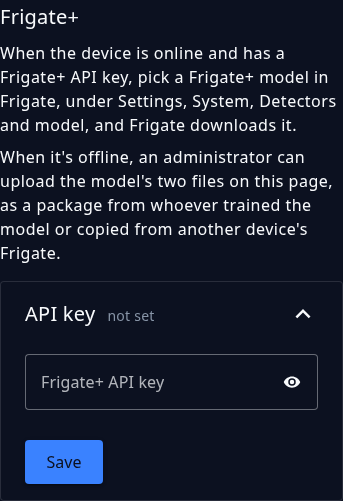
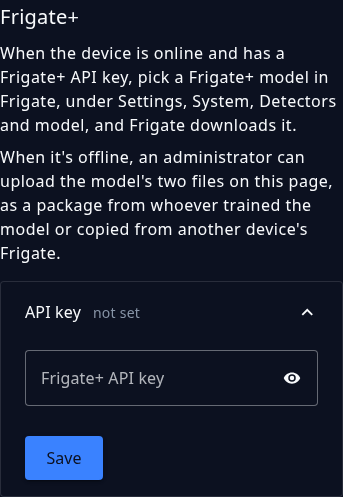
Tidy the Detection page's Frigate+ title and its docs
The "API key" panel title now sits in an h3 at the size of the Device
page's key titles, so it no longer reads as large as the Frigate+
heading. The Detection page docs say what the page shows: the two
lists of the card in use are recognised and tracked, not two readings
of one list, and the safe-mode and Frigate-down text matches what the
page does. The UI README's sketch and notes agree with the code, the
safe-mode test asserts both lists, and both screenshots are retaken.

Assisted-by: Claude Code 2.1.325 (CLI)
AI-Model: Claude Sonnet 5.5 (claude-sonnet-5-5)
AI-Role: drafted

diff --git a/tm-control/ui/src/modules/detection/DetectionPage.vue b/tm-control/ui/src/modules/detection/DetectionPage.vue
@@ -41,8 +41,8 @@ async function load() {
 }
 
 // The Frigate+ key (admins only), loaded again after each save or remove. The Status page's "Set the key" links to
-// the section, which opens, and the page scrolls to it once the models have answered and the sections above it have
-// their height.
+// the section, which is always there, and opens the key's panel; the page scrolls to the section once the models
+// have answered and the sections above it have their height.
 const FRIGATE_PLUS_ID = 'frigate-plus'
 const linkedToKey = route.hash === `#${FRIGATE_PLUS_ID}`
 const secrets = ref<SecretState[] | null>(null)
@@ -453,12 +453,14 @@ function openUpload() {
       </p>
       <v-expansion-panels v-if="session.isAdmin" v-model="keyOpen" multiple flat bg-color="background">
         <v-expansion-panel :value="FRIGATE_PLUS_ID" class="border" eager>
-          <v-expansion-panel-title class="text-h6">
-            <span class="d-flex flex-wrap align-baseline key-title">
-              <span>API key{{ ' ' }}</span>
-              <span v-if="keyState" class="text-body-2 text-secondary">{{ keyState }}</span>
-            </span>
-          </v-expansion-panel-title>
+          <h3 class="text-body-1">
+            <v-expansion-panel-title>
+              <span class="d-flex flex-wrap align-baseline key-title">
+                <span class="text-subtitle-1 font-weight-medium">API key{{ ' ' }}</span>
+                <span v-if="keyState" class="text-body-2 text-secondary">{{ keyState }}</span>
+              </span>
+            </v-expansion-panel-title>
+          </h3>
           <v-expansion-panel-text>
             <v-alert v-if="secretsError" type="error">
               {{ secretsError }}

diff --git a/tm-control/ui/tests/detection-page.spec.ts b/tm-control/ui/tests/detection-page.spec.ts
@@ -527,7 +527,9 @@ describe('the Detection page', () => {
     expect(toggle.text()).toBe('API key not set')
     expect(toggle.attributes('aria-expanded')).toBe('false')
     expect(wrapper.find('#frigate-plus form').exists()).toBe(true)
-    expect(wrapper.find('#frigate-plus h3').exists()).toBe(false) // the title says it already
+    expect(wrapper.find('#frigate-plus h3').text()).toBe('API key not set') // the panel's title sits inside a heading
+    expect(wrapper.findAll('#frigate-plus h3')).toHaveLength(1) // the form's own title is hidden: this one says it
+    expect(toggle.element.closest('h3')).not.toBeNull()
     await toggle.trigger('click')
     expect(toggle.attributes('aria-expanded')).toBe('true')
     expect(wrapper.text()).not.toContain('ThingsBoard access token')
@@ -647,6 +649,10 @@ describe('the Detection page', () => {
     expect(wrapper.text()).not.toContain("Frigate isn't answering")
     expect(fact(wrapper, 'Detector')).toBe('edgetpu')
     expect(wrapper.find('.model.in-use').text()).toContain('Test site yolov9') // what the config file names
+    expect(usedFold(wrapper).findAll('h4').map((h) => h.text())).toEqual([
+      `Objects the running model recognises (${MODELS.labels.recognised!.length})`,
+      expect.stringMatching(/^Objects tracked on this device \(6/),
+    ])
   })
 
   it("says the running model's labels aren't known when Frigate answers without them", async () => {

diff --git a/docs/use/detection.md b/docs/use/detection.md
@@ -15,7 +15,7 @@ The control app's **Detection** page shows what the device looks for and which A
 * **[Frigate+](#frigate-plus)** is how to get a Frigate+ model, and where administrators set the API key.
 * **Other models on this device** lists the rest, and its title counts them.
 
-![The Detection page on a phone, as an administrator: the Detector and Running model facts, then the model in use, its Files and objects opened to show the two lists of objects with three amber objects under them, and its files](../assets/images/detection-page-models.png){ width="300" }
+![The Detection page on a phone, as an administrator: the Detector and Running model facts, then the model in use, its Files and objects opened to show the two lists of objects and the model's files, then the Frigate+ section with its API key panel closed, and the other models](../assets/images/detection-page-models.png){ width="300" }
 
 Each model is a card with its name, its kind (Frigate+ or local), and when it was trained and what it's built for (when it says). Select **Files and objects** on a card to see its files, with their sizes and the start of each file's SHA-256 hash, and [the objects it recognises](#what-the-model-recognises). A model with no list of objects has **Files** instead, and the running model's card with no files has **Objects**. A mark says when the model is:
 
@@ -29,7 +29,7 @@ The model the installer set up is shown as **The installer's model**. It has no 
 
 Everyone who can log in sees the models, the object lists, and the Frigate+ text. Administrators also get **Upload a model**, under the **Other models on this device** heading, then **Use**, **Download**, and **Delete** on each model, and the Frigate+ API key. While Frigate runs another model, the device's default (the installer's model, or Frigate's built-in model on a device without a Coral) has a **Use** of its own.
 
-When Frigate isn't answering, the page says so and shows what Frigate's config file says. The model in use still has its card, made from the config file, so its lists are there too. A model that Frigate runs but the device has no entry for gets a card too, named for the model or **Unknown model**. The same when Frigate started in safe mode because it couldn't use its config: the page says so, nothing is detected meanwhile, and **Use** on a model, or on the installer's model, gives Frigate a config it can run.
+When Frigate isn't answering, the page says so and shows what Frigate's config file says. The same when Frigate started in safe mode because it couldn't use its config: the page says so, nothing is detected meanwhile, and **Use** on a model, or on the installer's model, gives Frigate a config it can run. In both cases the model in use still has its card, made from the config file. The objects Frigate tracks aren't known while it's down, so that list is empty, and the recognised list is there only when the model has a `.json` or the installer's labels file. A model that Frigate runs but the device has no entry for gets a card too, named for the model or **Unknown model**.
 
 ## Upload a model
 
@@ -78,13 +78,13 @@ The model in use's card holds two lists of objects. Select **Files and objects**
 * **Objects the running model recognises** is what the running model can detect. The line under its title says where the list came from: Frigate when it answers, otherwise the model's `.json` or the installer's labels file. Objects the device also tracks are filled. Frigate fills the gaps in a model's label map with entries named `unknown`, which the page leaves out, so its count can be lower than the label map's.
 * **Objects tracked on this device** is the objects Frigate is set to track, from its `objects:` `track` lists. Objects the running model doesn't recognise are amber, and the title counts them.
 
-Each list has a **Copy** button, and both are open whenever the card's fold is.
+Each list with objects in it has a **Copy** button, and both lists are shown whenever **Files and objects** is open.
 
-Frigate tracks only the objects in both lists. To track more of what the model recognises, change the lists in Frigate's configuration editor; see [Tune object detection](../configuration/frigate-config.md). An object that's tracked but not recognised is also named on the card itself, under **Tracked but not recognised by the running model**, so you see it while the fold is closed. The model can't detect it, so the device never counts it.
+To track more of what the model recognises, change the lists in Frigate's configuration editor; see [Tune object detection](../configuration/frigate-config.md). An object that's tracked but not recognised is also named on the card itself, under **Tracked but not recognised by the running model**, so you see it while **Files and objects** is closed. The model can't detect it, so the device never counts it.
 
 The other models' cards each have their own **Objects it recognises** list, read from that model's `.json` or, for the installer's model, its labels file. Frigate's built-in model has none. On those cards, a line names the tracked objects that model doesn't recognise, which the device would stop counting if you switched to it.
 
-The two lists in the model in use's card are read in different ways, but they should agree. When Frigate's list has different objects, a line above the lists says "Frigate reports a different list than this model's .json." This is rare, and it usually means someone edited the label map in Frigate's config on purpose.
+The recognised list comes from Frigate, and the model's `.json` has a list of its own. They should agree. When Frigate's list has different objects, a line above the lists says "Frigate reports a different list than this model's .json." This is rare, and it usually means someone edited the label map in Frigate's config on purpose.
 
 ## Frigate+ { #frigate-plus }
 
@@ -97,7 +97,7 @@ The two lists in the model in use's card are read in different ways, but they sh
 
 The two paragraphs show for everyone, and the section is there even when the page can't load the models. Administrators enter the API key in the panel titled **API key**, under the two paragraphs and above **Other models on this device**. The panel is closed until you select its title. The Status page's **Set the key** opens it. The key is kept with the device's other secrets, not in `config.yml`. A viewer sees the paragraphs and no panel.
 
-* The page never shows the key back. Beside the panel's title is a short note on whether the key is set: "not set", "set", or "set, ending in" its last four characters for a key of 12 or more characters. It adds ", in use" while Frigate runs a Frigate+ model.
+* The page never shows the key back. Beside the panel's title is a short note on whether the key is set: "not set", "set", or "set, ending in" its last four characters for a key of 12 or more characters. A set key's note adds ", in use" while Frigate runs a Frigate+ model; "not set" never does.
 * **Save** stores what you typed. A key is 36 characters, a colon, and 40 lowercase letters or digits, as Frigate+ shows it; the page refuses anything else. The eye icon shows the key while you type.
 * **Remove** asks first, then empties the key. Without a key, snapshots can't be submitted to Frigate+. A Frigate+ model whose files are on the device keeps running; one that isn't downloaded yet [stops Frigate](../configuration/frigate-config.md#if-frigate-stops-over-a-model) until the key is set again, and the Status page's Frigate+ check says so.
 * Saving or removing restarts Frigate, which takes about a minute. The device counts nothing meanwhile.

diff --git a/tm-control/ui/README.md b/tm-control/ui/README.md
@@ -515,8 +515,8 @@ Object detection, Model in use, Frigate+, Other models on this device.
 | |   (person) (car) !dog! !cat!   | |  <- !amber! = not recognised
 | |   Amber: the running model     | |
 | |   doesn't recognise it.        | |
-| |   0123...cdef, 4.0 KB, SHA-256 | |
-| |   0123...cdef.json, 433 bytes  | |
+| |   mine.tflite, 2.0 KB, SHA-256 | |
+| |   mine.tflite.json, 433 bytes  | |
 | +--------------------------------+ |
 |                                    |
 | Frigate+                      (h2) |  <- outside the panel
@@ -524,8 +524,9 @@ Object detection, Model in use, Frigate+, Other models on this device.
 | a Frigate+ API key, pick ...       |
 | When it's offline, an              |  <- both paragraphs: everyone
 | administrator can upload ...       |
-| > API key  set, ending in 0001,    |  <- admins: one panel, closed;
-|   in use                           |     a viewer sees no panel
+| > API key  set, ending in 0001     |  <- admins: one panel, closed (h3
+|                                    |     holds its title); a viewer sees
+|                                    |     no panel
 |                                    |
 | Other models on this device (2)(h2)|
 | [Upload a model]                   |
@@ -581,8 +582,9 @@ Frigate+ text.
 - The card in use is always there once the models have loaded, so the running model's lists have a home whether
   Frigate answers or not. The page makes the card when the list has none. A default with no file on the device
   (Frigate's built-in model on a device without a Coral, which the API can't list) gets one with "Built into
-  Frigate." as its facts line ("Set up by the installer." for the installer's model) and no files; a running model with no entry in the list gets one titled with its name,
-  or "Unknown model" when Frigate gave none. Without the first, a CPU device's one choice would be a button with no
+  Frigate." as its facts line ("Set up by the installer." for the installer's model) and no files; a running model
+  with no entry in the list gets one titled with its name, or "Unknown model" when Frigate gave none, with no buttons
+  and no file lines. Without the first, a CPU device's one choice would be a button with no
   card. The other cards are as the API lists them.
 - One chip per model at most, in words: "In use" (in the heading blue), "can't run on this detector", or
   "incomplete" (a model file without its sidecar, or the other way round). The API's reason, when it has one, is a
@@ -618,8 +620,10 @@ Frigate+ text.
   runs a Frigate+ model, and nothing until the secrets answer. A viewer gets the text and no panel. The section does
   not wait for `GET /models`, so it shows, and the key's form works, when the models can't load. The Status page's
   "Set the key" links to `/detection#frigate-plus`, which opens the panel and scrolls to the section. The panel's
-  content is rendered while closed (`eager`), so the page's height is known when the link scrolls. Its title
-  is a plain button at heading size, not a heading, because the section's h2 above it is the heading. The key's form is the Device page's (`EnteredSecret.vue`) without its own heading and state line.
+  content is rendered while closed (`eager`), so the page's height is known when the link scrolls. Its title, a
+  button, sits inside an h3 (`text-body-1`, like the Location page's panels), with "API key" in `text-subtitle-1
+  font-weight-medium`, the size of `EnteredSecret`'s own h3 on the Device page. At `text-h6` it read as large as the
+  section's h2. The key's form is the Device page's (`EnteredSecret.vue`) without its own heading and state line.
 - The admin's actions are buttons on each card, 44 px tall, in order of weight: Use (filled, not on the model in use),
   Download (outlined, any model whose model file is on the device), and Delete (red outline, when the API says it can
   be). "Upload a model" sits under the "Other models" heading, above the cards it adds to, visible with nothing to
@@ -686,6 +690,10 @@ through the `#frigate-plus` link, and through a Use and a Delete:
 - A closed card looked bottom-heavy, with the card's padding under the title's own. The fold takes back 8 px of it.
 - On a Coral unit running the installer's model, Frigate's list had 91 entries, 74 of them `unknown`, so the top list
   read "(91)" over rows of `unknown` chips while the card said 17. The API now leaves `unknown` out of every list.
+- Looked at and kept: at 375 px each list title in the fold wraps and its Copy sits on its own row. Nothing overlaps,
+  and Copy sat on its own row inside the old panels too.
+- The panel title "API key" was at `text-h6`, as large as the "Frigate+" h2 above it, and had no heading around it.
+  It now sits in an h3 at the size of the Device page's key titles.
 
 #### Defaults rejected
 
